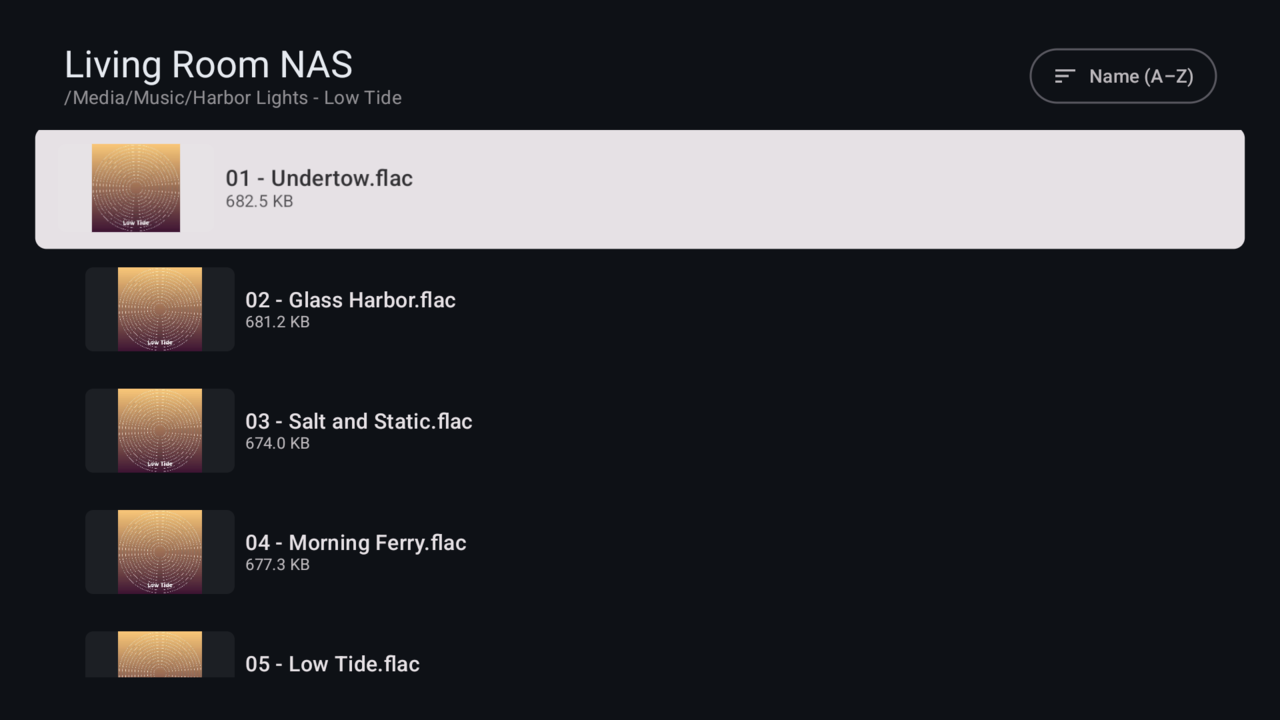
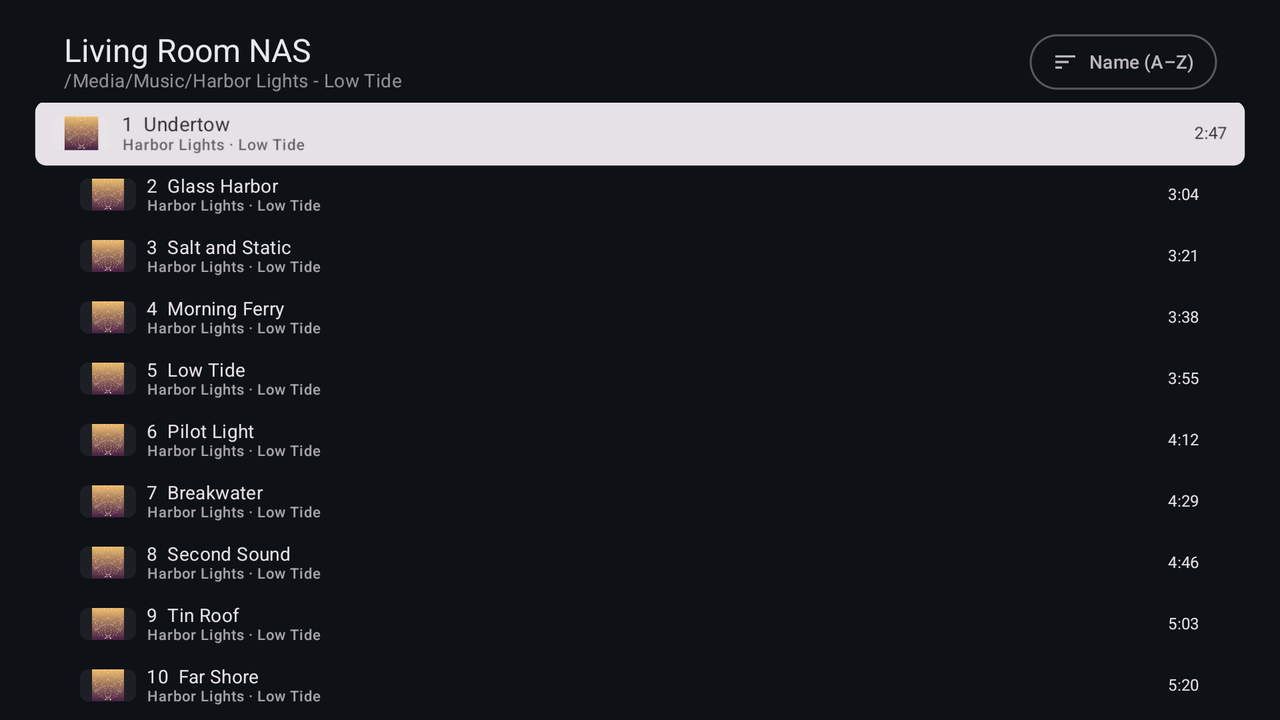
Refresh docs and screenshots for the recent changes
Retakes the list, Settings and sort screenshots with a new generated demo
library, adds List size and USB shots, and documents audio tags, the signing
key limitation on updates, and the changed queue and thumbnail behaviour.

diff --git a/README.md b/README.md
@@ -1,6 +1,6 @@
 # NAS Player
 
-An Android TV / Google TV app for watching video, listening to music and viewing photos straight from a NAS over SMB (Windows / Samba / TrueNAS / Synology shares) or WebDAV. It has no cloud, no accounts, no media scanning and no metadata scraping: you browse folders and press play, and everything plays inside the app.
+An Android TV / Google TV app for watching video, listening to music and viewing photos straight from a NAS over SMB (Windows / Samba / TrueNAS / Synology shares) or WebDAV. It also reads USB drives. It has no cloud, no accounts, no media scanning and no metadata scraping: you browse folders and press play, and everything plays inside the app.
 
 <p align="center">
   <img src="docs/screenshots/01-home.png" alt="Home screen with Continue watching, saved sources and servers found on the network" width="80%">
@@ -10,16 +10,18 @@ An Android TV / Google TV app for watching video, listening to music and viewing
 |---|---|
 | ![Movie folders shown with their poster art](docs/screenshots/02-movies.png) | ![TV episodes with thumbnails taken from the video](docs/screenshots/03-episodes.png) |
 | Movie folders use their `poster.jpg` | Episodes get a frame from the video |
-| ![Album tracks with embedded cover art](docs/screenshots/04-album.png) | ![Music playing with cover art and playback controls](docs/screenshots/05-music.png) |
-| Albums show their cover art | Music plays with the cover full-screen |
+| ![Album tracks showing title, artist, album and duration](docs/screenshots/04-album.png) | ![Music playing with cover art and playback controls](docs/screenshots/05-music.png) |
+| Album folders show tags and duration | Music plays with the cover full-screen |
 | ![Photo folder with previews](docs/screenshots/07-photos.png) | ![Photo viewer with filename, position and slideshow hint](docs/screenshots/06-viewer.png) |
 | Photo folders show previews | Photos open in the built-in viewer |
 | ![Sort menu](docs/screenshots/08-sort.png) | ![Resume or start over prompt](docs/screenshots/09-resume.png) |
 | Sort any folder | Pick up where you left off |
-| ![Settings screen](docs/screenshots/10-settings.png) | ![Playback log listing codecs and decoders per file](docs/screenshots/11-log.png) |
+| ![Settings screen with the List size option selected](docs/screenshots/10-settings.png) | ![Playback log listing codecs and decoders per file](docs/screenshots/11-log.png) |
 | Settings | Playback log for diagnosing codec gaps |
+| ![Movie folder at the Extra large list size](docs/screenshots/12-list-size.png) | ![Home screen with a USB drive under Local drives](docs/screenshots/13-usb.png) |
+| List size set to Extra large | USB drives appear under Local drives |
 
-*Screenshots are from a Google TV Streamer using a generated demo library (original artwork, test tones and clips).*
+*Screenshots use a generated demo library (original artwork, test tones and clips). They come from a Google TV Streamer, except the folder lists, sort menu, Settings and USB shots, which come from the Android TV emulator.*
 
 ## Features
 
@@ -35,6 +37,7 @@ An Android TV / Google TV app for watching video, listening to music and viewing
   - movie and show folders: `poster.jpg`, `folder.jpg`, `cover.jpg` and the other names Plex, Kodi and Jellyfin use;
   - music: embedded album art, otherwise the folder's cover;
   - photos and photo folders: a preview of the image.
+- **Audio tags** in album folders (audio with no video and at most one image): track number, title, artist, album, year and duration from the file's tags. Tested with MP3 over WebDAV so far.
 - Artwork files are hidden from listings and from the play queue.
 - **List size** in Settings: Small, Medium, Large or Extra large, which scales a folder's rows, text and thumbnails.
 - **Sorting** per folder: name A–Z / Z–A (natural order, so episode 2 comes before episode 10), newest, oldest, largest, or by type. Folders always come first, and the choice is remembered.
@@ -105,7 +108,7 @@ You need JDK 21 and the Android SDK (platform 37, build-tools 36).
 ./gradlew assembleDebug        # APKs in app/build/outputs/apk/debug/
 ```
 
-Release builds are signed with the debug key for side-loading; they are not minified, because smbj relies on reflection.
+Release builds are signed with the debug key for side-loading; they are not minified, because smbj relies on reflection. Each computer generates its own debug key, and Android only accepts an update signed with the same key as the installed app. Installing from a different computer fails with `INSTALL_FAILED_UPDATE_INCOMPATIBLE`, so build on the original computer or re-sign the APK with its key. Uninstalling first also works, but erases saved sources and resume positions.
 
 ### Installing over the network
 
@@ -129,7 +132,7 @@ More on the code layout and device testing: [docs/ARCHITECTURE.md](docs/ARCHITEC
 - **Use SMB.** With signing and encryption off it streams at link speed; reads are pipelined with SMB 3. NFS has no good Android client library, and WebDAV is slower and makes seeking harder for VLC.
 - **WebDAV:** enter the full base URL (e.g. `http://nas.local:8080/media`). Self-signed HTTPS can be allowed per source.
 - **Artwork:** put `poster.jpg` (or `folder.jpg` / `cover.jpg`) in movie, show and album folders, the same layout Plex, Kodi and Jellyfin use, and it becomes the thumbnail.
-- **Credentials** are kept in app-private storage (backups disabled) and encrypted with the Android Keystore. Some TV firmware has a keystore service that hangs; if it doesn't answer within two seconds the password is stored unencrypted in that same private storage and encrypted on a later save once the keystore responds.
+- **Credentials** are kept in app-private storage (backups disabled) and encrypted with the Android Keystore. Some TV firmware has a keystore service that hangs; if it doesn't answer within two seconds the password is stored unencrypted in that same private storage and encrypted on a later save once the keystore responds. If a saved password can't be decrypted, it's left in place rather than overwritten, so it isn't lost.
 
 ## License
 

diff --git a/docs/TESTING.md b/docs/TESTING.md
@@ -59,4 +59,6 @@ adb exec-out screencap -p > shot.png
 
 ## Screenshots
 
-`docs/screenshots/` was captured on a Google TV Streamer at 1920×1080 against a demo library of generated, original artwork and media, then resized to 1280×720 and stripped of metadata. Never capture screenshots against a real library: file names and artwork end up in a public repo.
+`docs/screenshots/` was captured at 1920×1080 against a demo library of generated, original artwork and media, then resized to 1280×720 and stripped of metadata. Some shots come from a Google TV Streamer and some from the emulator. Never capture screenshots against a real library: file names and artwork end up in a public repo.
+
+The home screen lists servers found on the network, and the emulator sees your real ones. Before capturing it, run `adb shell cmd connectivity airplane-mode enable`, and check the image before committing it.
